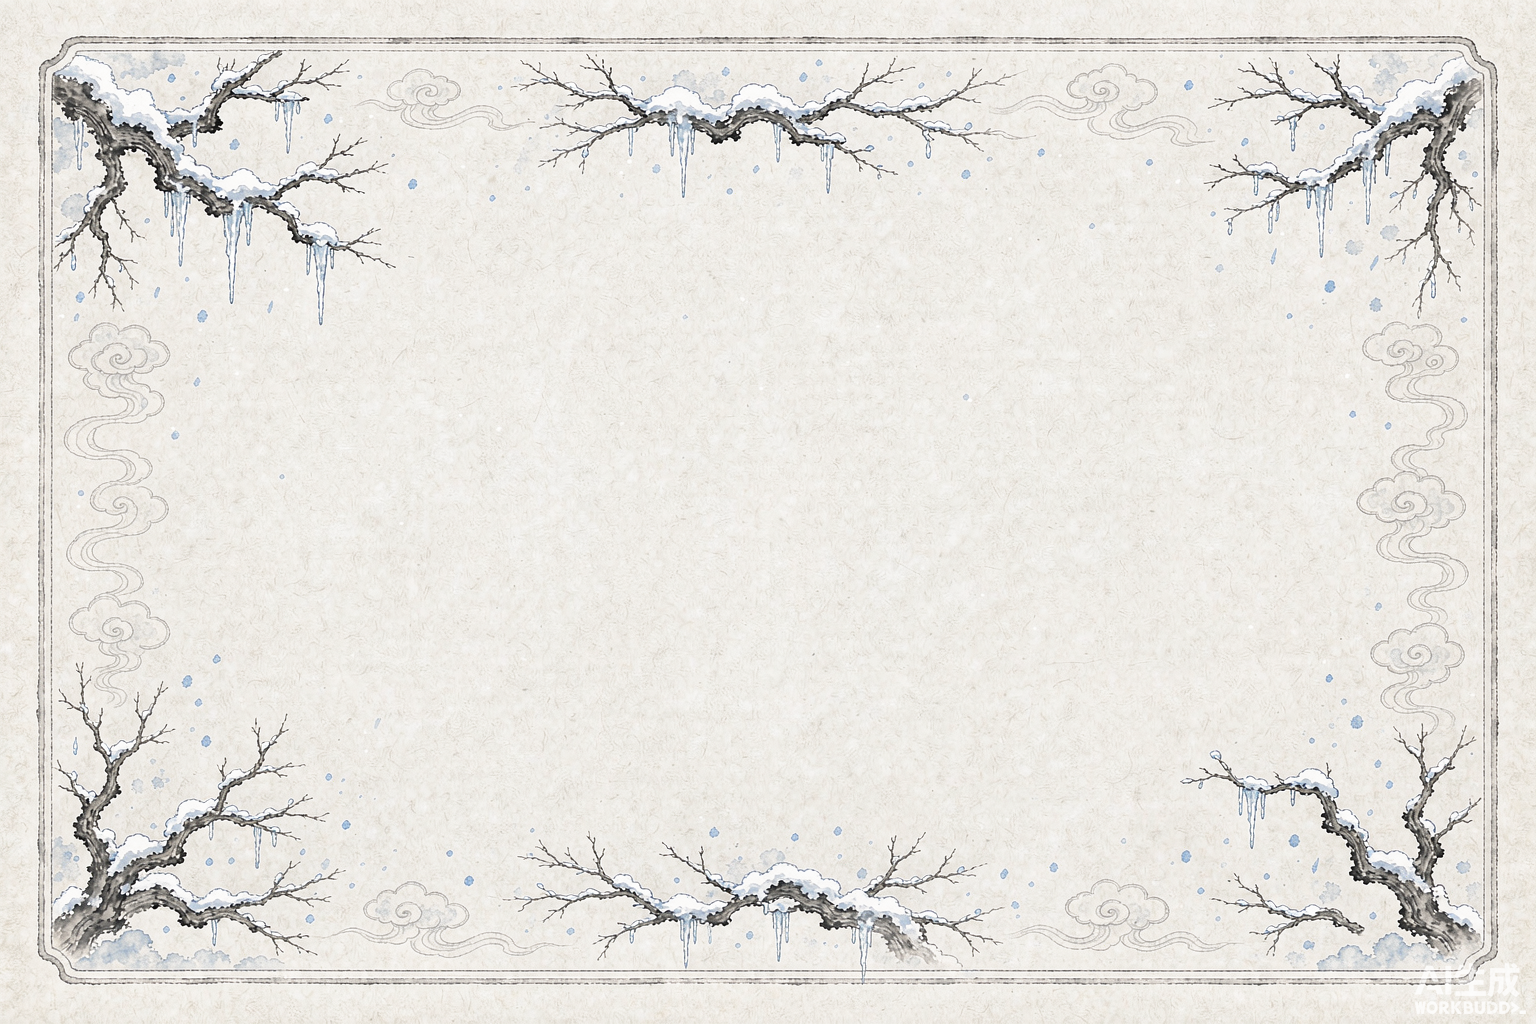
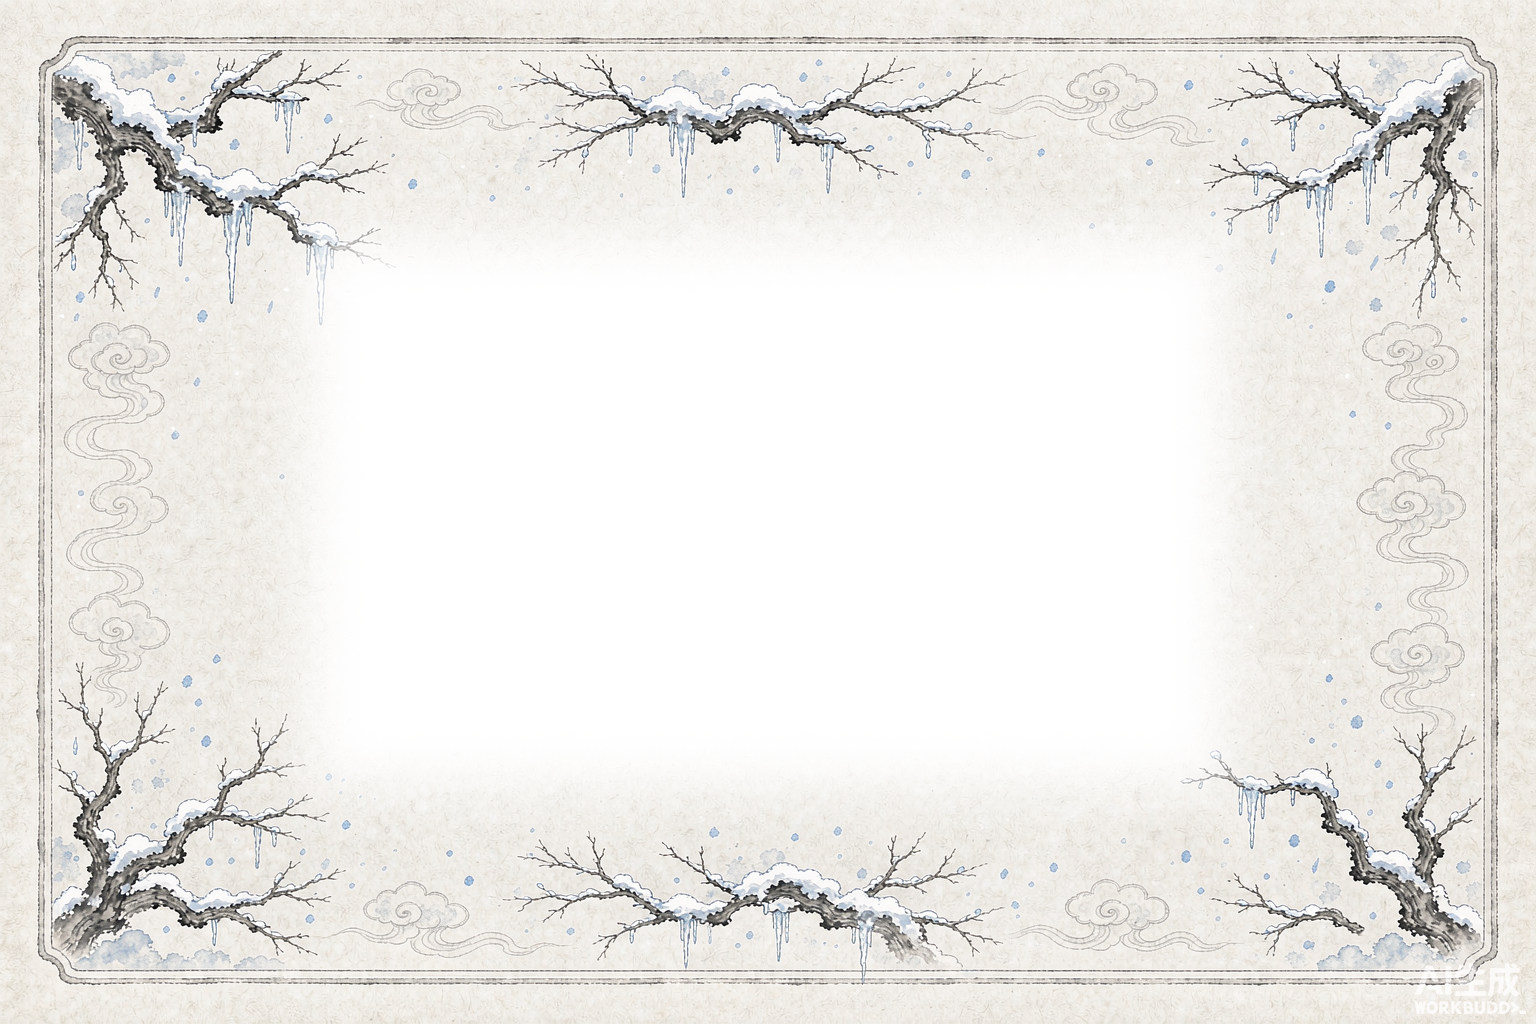
fix(ui): 标题可见性兜底（写完关掉 RectMask2D）+ 边框中心真正挖空
【读 Console 日志定位到的实情】三条诊断日志显示状态**全对**：
  主文本存在/激活/enabled=True、文本已设、字体 simkai、sizeDelta=1200；
  遮罩 found=True、fullW=1200、书写完成遮罩宽=1208、文本 alpha=1.00。
  另用反射量了几何：主标题世界矩形 x[360,1560] y[450,710]（屏幕正中）、字形 4/4 可见、
  首选宽 645、图集 1024²、材质 TMP Mobile/Distance Field。
  ⇒ **对象状态、几何、字形全正常**，但屏幕上就是没有 ⇒ 只能是"被裁剪/被覆盖"这一层。

【① 可见性兜底】书写结束**直接关掉 `RectMask2D`** —— 即使它的裁剪行为有意外，标题也一定可见。
  原则：**内容优先于效果**（效果可以让步，但不能把东西裁没）。
【② 边框图中心没挖空（真问题）】
  实测 frame_*.png **中心 alpha=243** ⇒ 整屏被一层 ~95% 的膜盖住（画面发灰也有它的份）。
  生成时给的是"只画四周"，但产出的图中心是浅纸色、过不了去白阈值。
  ⇒ 处理：中间 60%×54% 区域**连柔边一起清掉**（只留四周装饰）⇒ 中心 alpha 0、四角 179~220。

【待验证】请再进一次游戏。若标题出现 ⇒ 元凶就是 RectMask2D 的裁剪；若仍没有，
  说明是"被覆盖"，下一步直接给标题加一个更高的 Canvas 或改用独立 Canvas 层。

Changed region(s): [[0.1875, 0.2188, 0.7812, 0.75], [0.7812, 0.75, 0.8125, 0.7812]]

diff --git a/Assets/WanXiang/Modules/UI/ActIntroPanel.cs b/Assets/WanXiang/Modules/UI/ActIntroPanel.cs
@@ -273,7 +273,12 @@ namespace WanXiang.Modules.UI
                 await UniTask.Yield();
             }
             maskRt.sizeDelta = new Vector2(fullW + 8f, maskRt.sizeDelta.y);
-            Dbg("书写完成 遮罩宽=" + maskRt.sizeDelta.x.ToString("F0")
+            // 兜底：书写结束后**直接关掉 RectMask2D** ⇒ 即使它的裁剪行为有意外，标题也一定可见。
+            // （"默认可见优先"：效果可以让步，但内容不能被裁没。）
+            var rm = maskRt.GetComponent<UnityEngine.UI.RectMask2D>();
+            if (rm != null) rm.enabled = false;
+            Dbg("书写完成 已关闭遮罩裁剪 RectMask2D=" + (rm != null)
+                + " 遮罩宽=" + maskRt.sizeDelta.x.ToString("F0")
                 + " 遮罩rect=" + maskRt.rect.width.ToString("F0")
                 + " 文本激活=" + (_tmpTitleMain != null && _tmpTitleMain.gameObject.activeInHierarchy)
                 + " 文本alpha=" + (_tmpTitleMain != null ? _tmpTitleMain.color.a.ToString("F2") : "-"));
